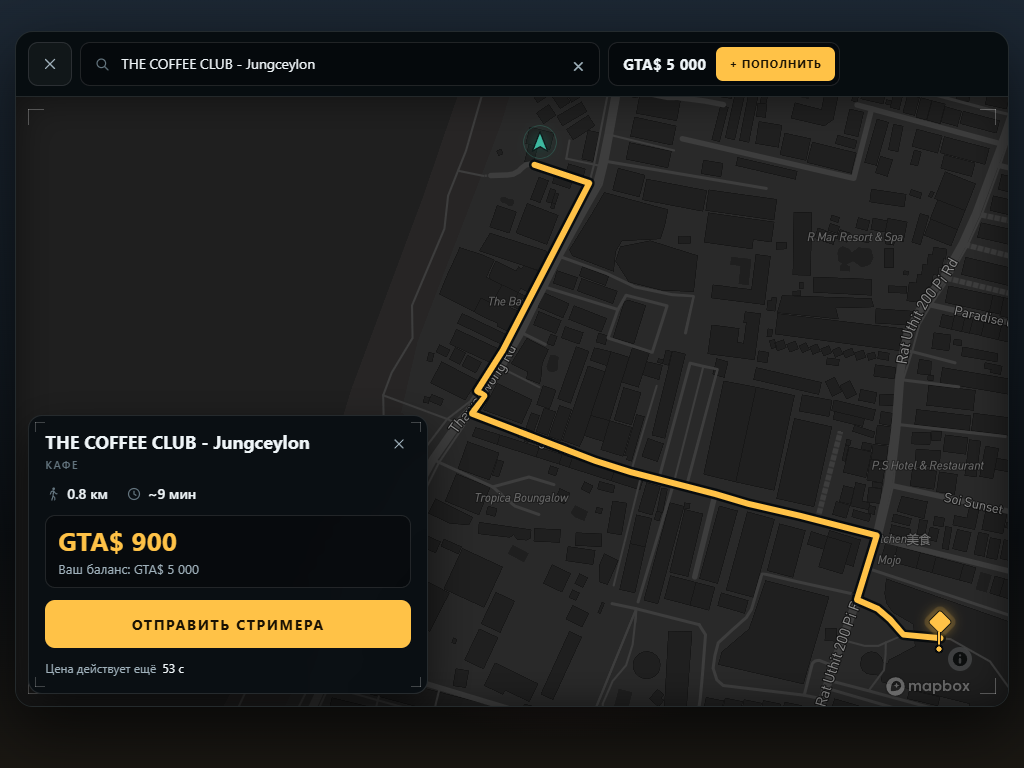
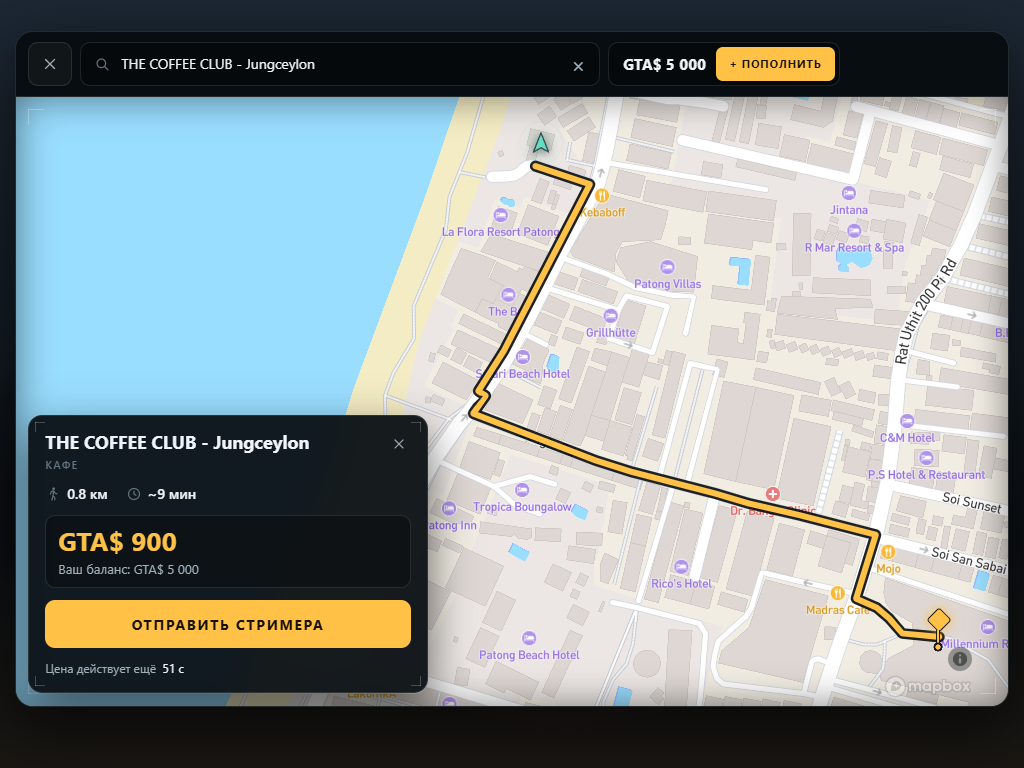
Streets map for viewers, dark OBS minimap without its own status band
- The extension map uses mapbox streets-v12 (shops, cafés, hotels, the
  beach; places are clickable). It is a server setting, MAPBOX_STYLE_URL:
  no zip change. The OBS minimap keeps its dark style through the new
  OBS_MAPBOX_STYLE_URL.
- OBS minimap: the map fills the whole frame; the status band floats over
  its bottom edge on a fading gradient and shrinks to a small pill when idle.
- Review screenshot re-captured on the streets map (1024x768); the ui-shots
  harness can switch style (UI_MAP_STYLE) and shoots the 1024x768 frame.

diff --git a/web/src/obs/obs.css b/web/src/obs/obs.css
@@ -445,3 +445,33 @@ body.page-obs {
   left: var(--mm-left);
   bottom: calc(var(--mm-bottom) + var(--mm-height) + 8px);
 }
+
+/* --------------------------------------------------------------------------
+   Strip over the map (proposal): the strip no longer takes its own band under
+   the map. It floats over the bottom of the map on a fading gradient, so the
+   map fills the whole frame; idle it shrinks to a small translucent pill.
+   -------------------------------------------------------------------------- */
+
+.obs-minimap .obs-strip {
+  position: absolute;
+  left: 0;
+  right: 0;
+  bottom: 0;
+  z-index: 3;
+  flex: none;
+  height: auto;
+  min-height: 0;
+  padding: 26px 15px 12px;
+  border-top: 0;
+  background: linear-gradient(to top, rgba(5, 9, 12, 0.82) 0%, rgba(5, 9, 12, 0.55) 55%, rgba(5, 9, 12, 0) 100%);
+}
+
+.obs-minimap .obs-strip:has(.obs-strip__idle) {
+  left: 12px;
+  right: auto;
+  bottom: 12px;
+  padding: 6px 11px;
+  border-radius: 999px;
+  border: 1px solid var(--hairline);
+  background: rgba(5, 9, 12, 0.6);
+}

diff --git a/server/src/env.ts b/server/src/env.ts
@@ -59,6 +59,8 @@ const schema = z.object({
   /** Server token used for Directions/Geocoding. Never sent to a browser. */
   MAPBOX_SERVER_TOKEN: z.string().default(''),
   MAPBOX_STYLE_URL: z.string().default('mapbox://styles/mapbox/dark-v11'),
+  /** The OBS minimap's own style; empty = MAPBOX_STYLE_URL. Dark reads best burned into the video. */
+  OBS_MAPBOX_STYLE_URL: z.string().default(''),
 
   // --- Auth -----------------------------------------------------------------
   /** HMAC key for streamer-device and admin session tokens. */

diff --git a/server/src/http/routes/obs.ts b/server/src/http/routes/obs.ts
@@ -27,7 +27,7 @@ export async function registerObsRoutes(app: FastifyInstance): Promise<void> {
     const { token } = req.query as { token?: string };
     return {
       mapboxToken: env.MAPBOX_PUBLIC_TOKEN,
-      styleUrl: env.MAPBOX_STYLE_URL,
+      styleUrl: env.OBS_MAPBOX_STYLE_URL || env.MAPBOX_STYLE_URL,
       channelId: channel(),
       bounds: PHUKET,
       trusted: isObsToken(token),
